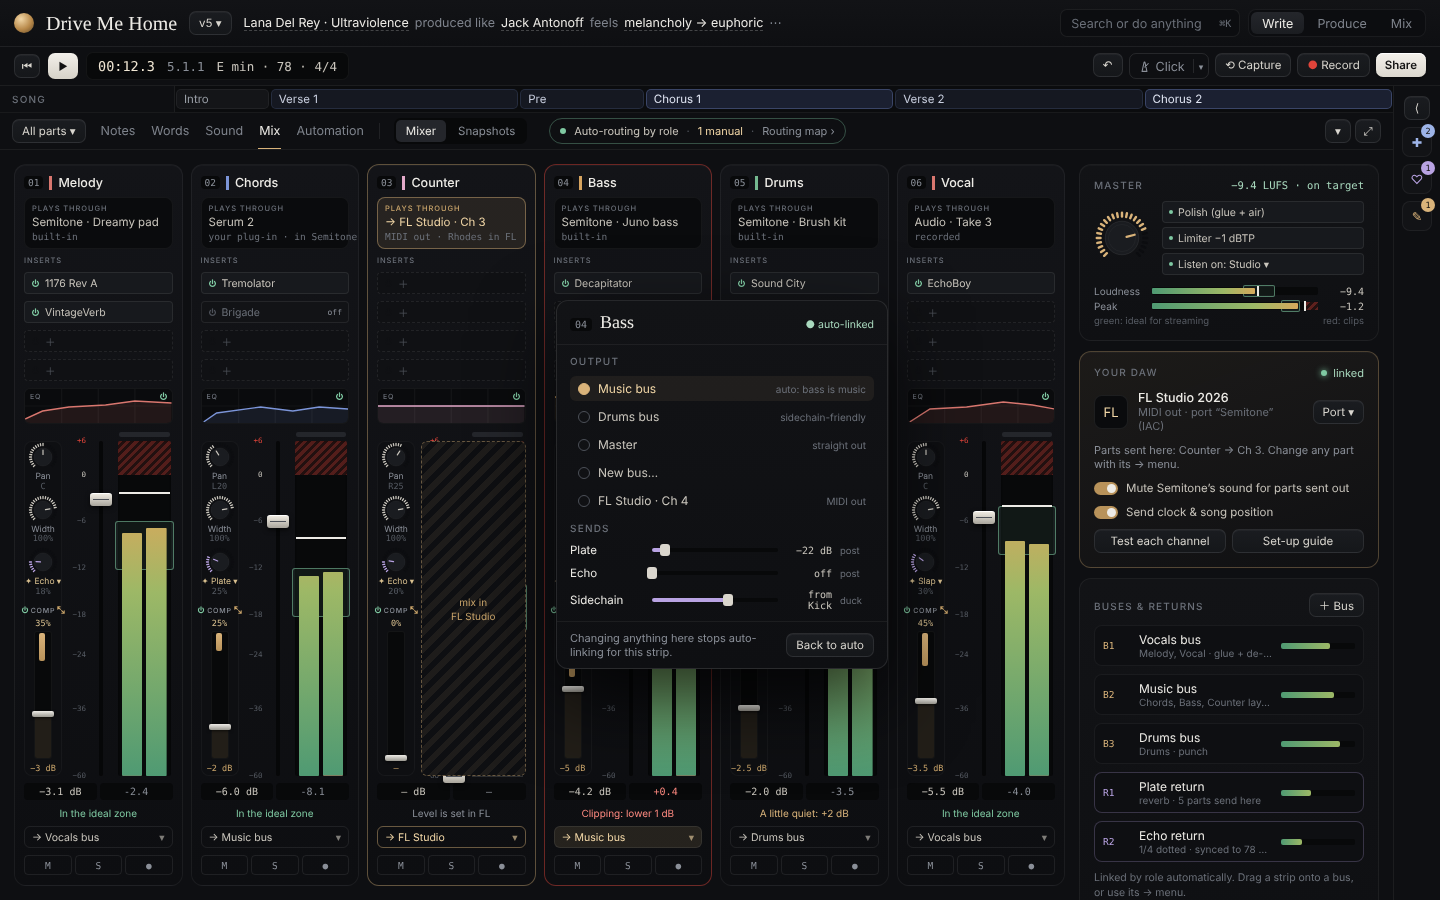
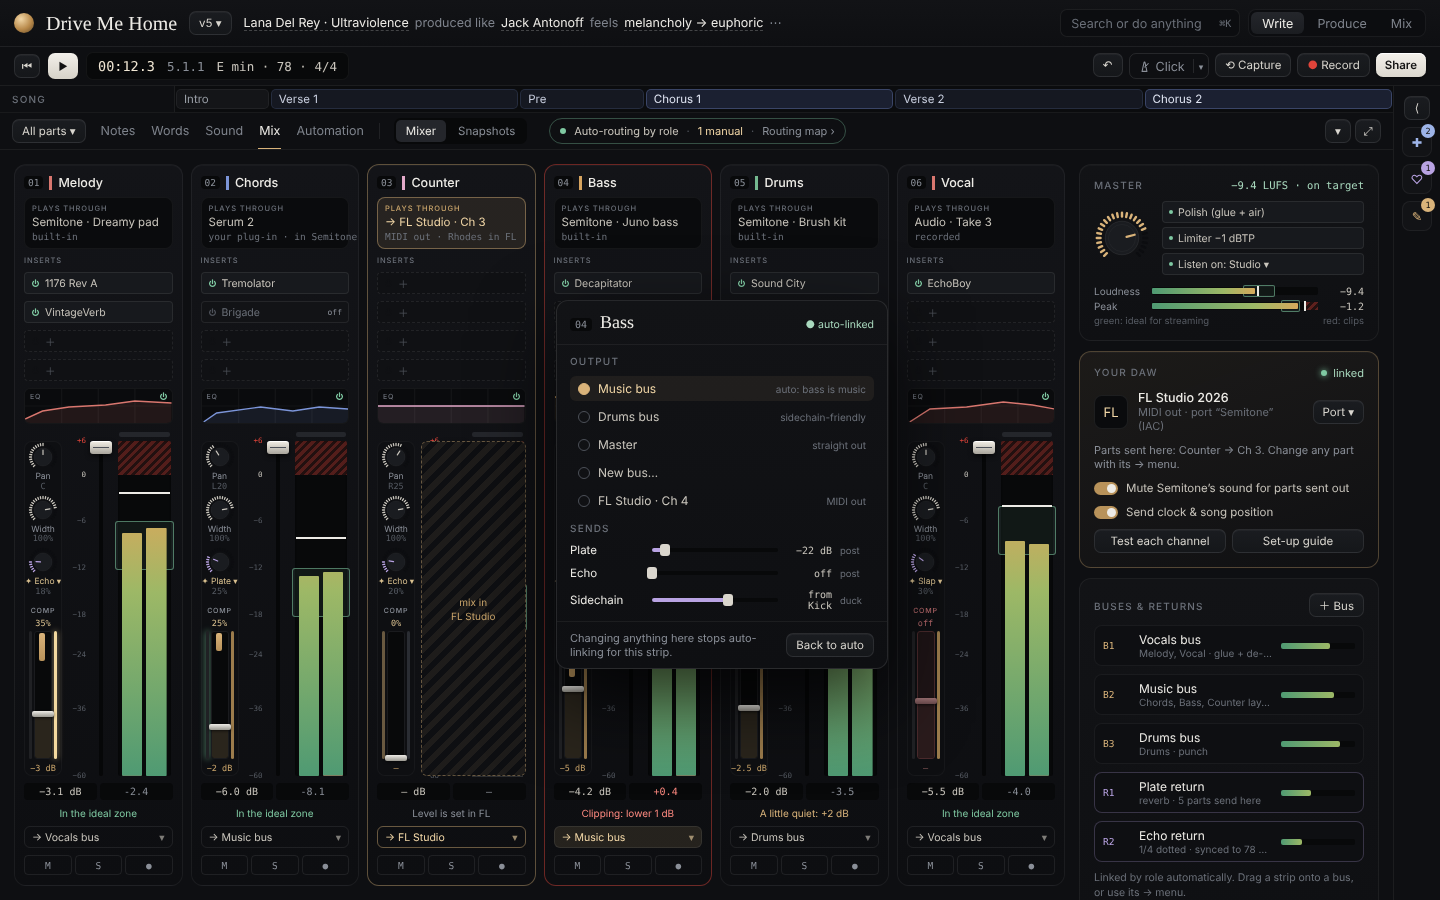
Mixer Comp column: green power rail (dull red when bypassed) and gold open rail, with hover tips
Claude-Session: https://claude.ai/code/session_01Gwi5mznyCGAVwjhLcrp4R8

diff --git a/docs/design/panels/reference-Mixer.dc.html b/docs/design/panels/reference-Mixer.dc.html
@@ -61,10 +61,14 @@ button{cursor:pointer;white-space:nowrap}
         <div style="flex: 1; display: grid; grid-template-columns: 38px 1fr; gap: 6px; min-height: 0; padding-top: 10px">
           <div style="display: flex; flex-direction: column; align-items: center; gap: 4px; padding: 0 0 2px; border-radius: 8px; background: #0E0F12; border: 1px solid rgba(255,255,255,.04)">
             <sc-for list="{{s.knobs}}" as="k" hint-placeholder-count="4"><sc-if value="{{k.hd}}" hint-placeholder-val="{{false}}"><span class="sm" style="font-size: 7px; margin-top: 4px; color: #555A62">{{k.hd}}</span></sc-if><span style="display: flex; flex-direction: column; align-items: center"><svg viewBox="0 0 60 60" width="30" height="30" aria-hidden="true"><sc-for list="{{k.seg}}" as="g" hint-placeholder-count="25"><path d="{{g.d}}" stroke="{{g.c}}" stroke-width="2.6" stroke-linecap="round"></path></sc-for><circle cx="30" cy="30" r="18" fill="#1A1C20" stroke="rgba(255,255,255,.08)"></circle><path d="{{k.ptr}}" stroke="{{k.col}}" stroke-width="2.4" stroke-linecap="round"></path></svg><span style="font-size: 8.5px; color: {{k.ni}}; line-height: 1; white-space: nowrap">{{k.n}}</span><span class="mono" style="font-size: 8.5px; color: #555A62">{{k.v}}</span></span></sc-for>
-            <span class="sm" title="Double-click the bar to open the compressor" style="font-size: 7px; margin-top: 6px; color: #8A8F98; display: flex; align-items: center; gap: 2px"><span role="button" aria-label="Bypass compressor" title="Bypass compressor" style="display: flex"><svg viewBox="0 0 10 10" width="8" height="8" aria-hidden="true"><path d="M5 1.1V4.9" stroke="#7FC9A2" stroke-width="1.4" stroke-linecap="round"></path><path d="M2.8 2.7A3.2 3.2 0 1 0 7.2 2.7" fill="none" stroke="#7FC9A2" stroke-width="1.4" stroke-linecap="round"></path></svg></span>Comp<svg viewBox="0 0 10 10" width="8" height="8" aria-hidden="true"><path d="M4 1H1V4M6 9H9V6M1 1L4.2 4.2M9 9L5.8 5.8" fill="none" stroke="#C9A46A" stroke-width="1.3" stroke-linecap="round"/></svg></span>
-            <span class="mono" style="font-size: 8.5px; color: #D9C08F; line-height: 1">{{s.ca}}%</span>
-            <span title="Compressor: drag the cap for more or less. Double-click to open the compressor. Alt-click: smart amount" style="position: relative; width: 16px; flex: 1; min-height: 60px; border-radius: 3px; background: #08090A; border: 1px solid rgba(255,255,255,.05)"><span style="position: absolute; left: 0; right: 0; bottom: 0; height: {{s.ca}}%; border-radius: 2px; background: rgba(217,179,122,.13)"></span><span style="position: absolute; left: 4px; width: 6px; top: 1px; height: {{s.gr}}%; border-radius: 2px; background: linear-gradient(#D9B37A, #B8925A)"></span><span style="position: absolute; left: -3px; right: -3px; bottom: calc({{s.ca}}% - 3px); height: 6px; border-radius: 2px; background: linear-gradient(#EDEBE6, #9A9890); box-shadow: 0 1px 3px rgba(0,0,0,.6)"></span></span>
-            <span class="mono" style="font-size: 8.5px; color: #C9A46A">{{s.grt}}</span>
+            <span class="sm" style="font-size: 7px; margin-top: 6px; color: {{s.labInk}}">Comp</span>
+            <span class="mono" style="font-size: 8.5px; color: {{s.caInk}}; line-height: 1">{{s.cat}}</span>
+            <span style="flex: 1; min-height: 60px; display: flex; gap: 2px; align-items: stretch">
+              <span role="button" aria-label="{{s.lLab}}" title="{{s.lLab}} (B)" style="width: 3px; border-radius: 2px; background: {{s.rl}}; box-shadow: {{s.rlg}}"></span>
+              <span title="Compressor: drag the cap for more or less. Double-click to open. Alt-click: smart amount" style="position: relative; width: 16px; border-radius: 3px; background: {{s.barBg}}; border: 1px solid {{s.barLine}}"><span style="position: absolute; left: 0; right: 0; bottom: 0; height: {{s.ca}}%; border-radius: 2px; background: {{s.tint}}"></span><span style="position: absolute; left: 4px; width: 6px; top: 1px; height: {{s.gr}}%; border-radius: 2px; background: {{s.grFill}}"></span><span style="position: absolute; left: -3px; right: -3px; bottom: calc({{s.ca}}% - 3px); height: 6px; border-radius: 2px; background: {{s.cap}}; box-shadow: 0 1px 3px rgba(0,0,0,.6)"></span></span>
+              <span role="button" aria-label="Open compressor" title="Open compressor" style="width: 3px; border-radius: 2px; background: {{s.rr}}; box-shadow: {{s.rrg}}"></span>
+            </span>
+            <span class="mono" style="font-size: 8.5px; color: {{s.grInk}}">{{s.grt}}</span>
           </div>
           <div style="position: relative; display: grid; grid-template-columns: 20px 22px 1fr; gap: 2px; padding-right: 2px">
             <div style="position: relative">
@@ -120,7 +124,7 @@ button{cursor:pointer;white-space:nowrap}
     </aside>
   </div>
 
-  <div role="dialog" aria-label="What this knob controls" style="position: absolute; left: 598px; top: 452px; width: 318px; border-radius: 12px; background: linear-gradient(#121316, #0E0F12); border: 1px solid rgba(255,255,255,.09); box-shadow: 0 24px 60px rgba(0,0,0,.7); z-index: 9; overflow: hidden; font-size: 11.5px">
+  <div role="dialog" aria-label="What this knob controls" style="position: absolute; left: 598px; top: 452px; width: 290px; border-radius: 12px; background: linear-gradient(#121316, #0E0F12); border: 1px solid rgba(255,255,255,.09); box-shadow: 0 24px 60px rgba(0,0,0,.7); z-index: 9; overflow: hidden; font-size: 11.5px">
     <div style="padding: 10px 12px; display: flex; align-items: center; gap: 8px; border-bottom: 1px solid rgba(255,255,255,.06)"><span class="mono" style="color: #6B7079">04</span><span class="serif" style="font-size: 16px">Bass</span><span style="color: #8A8F98">· this knob controls</span><span style="margin-left: auto; padding: 2px 7px; border-radius: 999px; background: rgba(217,179,122,.12); color: #D9C08F; font-size: 10px">✦ smart</span></div>
     <div style="padding: 8px 8px 4px"><span class="sm" style="padding: 0 4px">Useful on bass</span>
       <sc-for list="{{smOpts}}" as="o" hint-placeholder-count="3"><div style="display: flex; gap: 9px; align-items: flex-start; padding: 6px 6px; border-radius: 7px; background: {{o.bg}}; margin-top: 3px"><span style="margin-top: 2px; width: 10px; height: 10px; border-radius: 50%; border: 1.5px solid {{o.ring}}; background: {{o.dot}}; flex-shrink: 0"></span><span style="display: flex; flex-direction: column; gap: 1px"><span style="color: {{o.ink}}">{{o.n}}</span><span style="color: #6B7079; font-size: 10.5px">{{o.d}}</span></span></div></sc-for>
@@ -131,7 +135,8 @@ button{cursor:pointer;white-space:nowrap}
     </div>
     <div style="padding: 8px 12px; border-top: 1px solid rgba(255,255,255,.06); color: #6B7079; font-size: 10.5px; display: flex; align-items: center; gap: 8px"><span>Picked for bass in this style. A choice you make sticks.</span><span style="margin-left: auto; color: #D9C08F; white-space: nowrap">✦ Back to smart</span></div>
   </div>
-  <div style="position: absolute; left: 62px; top: 668px; width: 176px; padding: 8px 10px; border-radius: 9px; background: #121316; border: 1px solid rgba(217,179,122,.3); box-shadow: 0 12px 30px rgba(0,0,0,.6); z-index: 8; font-size: 10.5px; color: #8A8F98; line-height: 1.4"><span style="display: flex; align-items: center; gap: 6px; color: #EDEBE6">Comp 35% · Smooth</span><span style="display: flex; align-items: center; gap: 6px; margin: 5px 0 3px; color: #F1D6A6"><span style="display: inline-flex; gap: 2px"><span style="width: 7px; height: 7px; border-radius: 50%; border: 1.3px solid #D9B37A"></span><span style="width: 7px; height: 7px; border-radius: 50%; border: 1.3px solid #D9B37A"></span></span>Double-click to open</span>Drag the cap for more or less. ⌥-click: smart amount.</div></div>
+  <div role="tooltip" style="position: absolute; left: 70px; top: 640px; padding: 6px 10px; border-radius: 8px; background: #1E1B14; border: 1px solid #5A4A30; box-shadow: 0 10px 26px rgba(0,0,0,.6); z-index: 8; font-size: 11px; color: #F3D9A0; white-space: nowrap; display: flex; align-items: center; gap: 6px"><span style="width: 3px; height: 12px; border-radius: 2px; background: #F3D9A0"></span>Click to open the compressor</div>
+  <div role="tooltip" style="position: absolute; left: 236px; top: 610px; padding: 6px 10px; border-radius: 8px; background: #14201A; border: 1px solid #2E5A44; box-shadow: 0 10px 26px rgba(0,0,0,.6); z-index: 8; font-size: 11px; color: #9FE8C0; white-space: nowrap; display: flex; align-items: center; gap: 6px"><span style="width: 3px; height: 12px; border-radius: 2px; background: #8FF0BA"></span>Click to bypass · B</div></div></div>
 </x-dc>
 <script type="text/x-dc" data-dc-script data-props='{"$preview":{"width":1440,"height":900}}'>
 class Component extends DCLogic {
@@ -164,13 +169,22 @@ function segOf(list, on) { return list.map(function (n) { var o = n === on; retu
       var idT = Y(s[11][1]), idB = Y(s[11][0]);
       return { n: s[0], c: s[1], out: s[2], outSub: s[3], fx: fxL(s[4]),
         knobs: (function () { var sm = { Melody: ['Echo', .18, '18%', 's'], Chords: ['Plate', .25, '25%', 's'], Counter: ['Echo', .2, '20%', 's'], Bass: ['Drive', .3, '30%', 't'], Drums: ['Room', .3, '30%', 's'], Vocal: ['Slap', .3, '30%', 's'] }[s[0]]; return [{ n: 'Pan', v: s[5][1], x: s[5][0] }, { n: 'Width', v: '100%', x: .8 }, { n: '✦ ' + sm[0] + ' ▾', v: sm[2], x: sm[1], c: sm[3] === 's' ? '#B9A3E3' : '#D9B37A', smart: 1 }].map(function (k) { var o = knob(k.x, k.c || '#C9C5BC', 30); o.n = k.n; o.v = k.v; o.ni = k.smart ? '#D9C08F' : '#8A8F98'; o.hd = false; return o; }); })(),
-        ca: ext ? 0 : { Melody: 35, Chords: 25, Counter: 0, Bass: 55, Drums: 40, Vocal: 45 }[s[0]], cst: { Melody: 'Smooth', Chords: 'Glue', Counter: '', Bass: 'Steady', Drums: 'Punchy', Vocal: 'Smooth' }[s[0]],
+        ca: ext ? 0 : { Melody: 35, Chords: 25, Counter: 0, Bass: 55, Drums: 40, Vocal: 45 }[s[0]],
+        cOff: s[0] === 'Vocal', hovL: s[0] === 'Chords', hovR: s[0] === 'Melody', cst: { Melody: 'Smooth', Chords: 'Glue', Counter: '', Bass: 'Steady', Drums: 'Punchy', Vocal: 'Smooth' }[s[0]],
         gr: ext ? 0 : [22, 14, 0, 35, 18, 26][['Melody', 'Chords', 'Counter', 'Bass', 'Drums', 'Vocal'].indexOf(s[0])], grt: ext ? '—' : '−' + ([3, 2, 0, 5, 2.5, 3.5][['Melody', 'Chords', 'Counter', 'Bass', 'Drums', 'Vocal'].indexOf(s[0])]) + ' dB',
         l1: (100 - Y(s[8])).toFixed(1), l2: (100 - Y(s[9])).toFixed(1), gs1: (100 / Math.max(.01, (100 - Y(s[8])) / 100)).toFixed(0), gs2: (100 / Math.max(.01, (100 - Y(s[9])) / 100)).toFixed(0),
         pk: Y(s[10]).toFixed(1), pkc: hot ? '#E0443A' : '#EDEBE6', clip: hot ? '#E0443A' : '#24262B', peak: ext ? '—' : (s[10] > 0 ? '+' : '') + s[10].toFixed(1), pkInk: hot ? '#FF8A80' : '#8A8F98',
         idT: idT.toFixed(1), idH: (idB - idT).toFixed(1), cap: Y(s[7] === null ? -60 : s[7]).toFixed(1), db: ext ? '— dB' : (s[7] > 0 ? '+' : '') + s[7].toFixed(1).replace('-', '−') + ' dB',
         verdict: s[12], verdictInk: hot ? '#FF8A80' : low ? '#D9B37A' : ext ? '#8A8F98' : '#7FC9A2', eq: s[13],
         ext: ext, mo: ext ? .15 : 1, ms: ['M', 'S', '●'], line: hot ? 'rgba(224,68,58,.45)' : ext ? 'rgba(217,179,122,.4)' : 'rgba(255,255,255,.06)', outBg: ext ? 'rgba(217,179,122,.1)' : '#0A0B0D', outLine: ext ? 'rgba(217,179,122,.45)' : 'rgba(255,255,255,.05)', outInk: ext ? '#F1D6A6' : '#C9C5BC', outK: ext ? '#C9A46A' : '#6B7079' }; });
+    strips.forEach(function (t) { var off = t.cOff, ext = t.ext;
+      t.rl = off ? (t.hovL ? '#D86060' : '#B04E50') : t.hovL ? '#8FF0BA' : ext ? '#2A2D33' : '#4FA877'; t.rlg = t.hovL ? '0 0 6px rgba(143,240,186,.7)' : 'none';
+      t.rr = t.hovR ? '#F3D9A0' : ext ? '#2A2D33' : '#9C7C4C'; t.rrg = t.hovR ? '0 0 6px rgba(243,217,160,.7)' : 'none';
+      t.barBg = off ? '#1E1416' : '#08090A'; t.barLine = off ? '#4A2A2C' : '#1A1B1E'; t.tint = off ? '#2A1B1C' : '#2A251C';
+      t.grFill = off ? '#4A2A2C' : 'linear-gradient(#D9B37A, #B8925A)'; t.cap = off ? 'linear-gradient(#9A7072, #6A4A4C)' : 'linear-gradient(#EDEBE6, #9A9890)';
+      t.cat = off ? 'off' : t.ca + '%'; t.caInk = off ? '#B86A6C' : '#D9C08F'; t.labInk = off ? '#B86A6C' : '#8A8F98';
+      t.grt = off ? '—' : t.grt; t.grInk = off ? '#8A5A5C' : '#C9A46A'; if (off) t.gr = 0;
+      t.lLab = off ? 'Turn compressor on' : 'Bypass compressor'; });
     var master = knob(.78, '#D9B37A', 54);
     var mfx = ['Polish (glue + air)', 'Limiter −1 dBTP', 'Listen on: Studio ▾'];
     var mbars = [['Loudness', 62, 55, 18, 0, 64, '−9.4'], ['Peak', 88, 78, 10, 7, 92, '−1.2']].map(function (b) { return { n: b[0], v: b[1], zl: b[2], zw: b[3], red: b[4], pk: b[5], t: b[6] }; });

diff --git a/docs/design/panels/reference-Routing.dc.html b/docs/design/panels/reference-Routing.dc.html
@@ -61,10 +61,14 @@ button{cursor:pointer;white-space:nowrap}
         <div style="flex: 1; display: grid; grid-template-columns: 38px 1fr; gap: 6px; min-height: 0; padding-top: 10px">
           <div style="display: flex; flex-direction: column; align-items: center; gap: 4px; padding: 0 0 2px; border-radius: 8px; background: #0E0F12; border: 1px solid rgba(255,255,255,.04)">
             <sc-for list="{{s.knobs}}" as="k" hint-placeholder-count="4"><sc-if value="{{k.hd}}" hint-placeholder-val="{{false}}"><span class="sm" style="font-size: 7px; margin-top: 4px; color: #555A62">{{k.hd}}</span></sc-if><span style="display: flex; flex-direction: column; align-items: center"><svg viewBox="0 0 60 60" width="30" height="30" aria-hidden="true"><sc-for list="{{k.seg}}" as="g" hint-placeholder-count="25"><path d="{{g.d}}" stroke="{{g.c}}" stroke-width="2.6" stroke-linecap="round"></path></sc-for><circle cx="30" cy="30" r="18" fill="#1A1C20" stroke="rgba(255,255,255,.08)"></circle><path d="{{k.ptr}}" stroke="{{k.col}}" stroke-width="2.4" stroke-linecap="round"></path></svg><span style="font-size: 8.5px; color: {{k.ni}}; line-height: 1; white-space: nowrap">{{k.n}}</span><span class="mono" style="font-size: 8.5px; color: #555A62">{{k.v}}</span></span></sc-for>
-            <span class="sm" title="Double-click the bar to open the compressor" style="font-size: 7px; margin-top: 6px; color: #8A8F98; display: flex; align-items: center; gap: 2px"><span role="button" aria-label="Bypass compressor" title="Bypass compressor" style="display: flex"><svg viewBox="0 0 10 10" width="8" height="8" aria-hidden="true"><path d="M5 1.1V4.9" stroke="#7FC9A2" stroke-width="1.4" stroke-linecap="round"></path><path d="M2.8 2.7A3.2 3.2 0 1 0 7.2 2.7" fill="none" stroke="#7FC9A2" stroke-width="1.4" stroke-linecap="round"></path></svg></span>Comp<svg viewBox="0 0 10 10" width="8" height="8" aria-hidden="true"><path d="M4 1H1V4M6 9H9V6M1 1L4.2 4.2M9 9L5.8 5.8" fill="none" stroke="#C9A46A" stroke-width="1.3" stroke-linecap="round"/></svg></span>
-            <span class="mono" style="font-size: 8.5px; color: #D9C08F; line-height: 1">{{s.ca}}%</span>
-            <span title="Compressor: drag the cap for more or less. Double-click to open the compressor. Alt-click: smart amount" style="position: relative; width: 16px; flex: 1; min-height: 60px; border-radius: 3px; background: #08090A; border: 1px solid rgba(255,255,255,.05)"><span style="position: absolute; left: 0; right: 0; bottom: 0; height: {{s.ca}}%; border-radius: 2px; background: rgba(217,179,122,.13)"></span><span style="position: absolute; left: 4px; width: 6px; top: 1px; height: {{s.gr}}%; border-radius: 2px; background: linear-gradient(#D9B37A, #B8925A)"></span><span style="position: absolute; left: -3px; right: -3px; bottom: calc({{s.ca}}% - 3px); height: 6px; border-radius: 2px; background: linear-gradient(#EDEBE6, #9A9890); box-shadow: 0 1px 3px rgba(0,0,0,.6)"></span></span>
-            <span class="mono" style="font-size: 8.5px; color: #C9A46A">{{s.grt}}</span>
+            <span class="sm" style="font-size: 7px; margin-top: 6px; color: {{s.labInk}}">Comp</span>
+            <span class="mono" style="font-size: 8.5px; color: {{s.caInk}}; line-height: 1">{{s.cat}}</span>
+            <span style="flex: 1; min-height: 60px; display: flex; gap: 2px; align-items: stretch">
+              <span role="button" aria-label="{{s.lLab}}" title="{{s.lLab}} (B)" style="width: 3px; border-radius: 2px; background: {{s.rl}}; box-shadow: {{s.rlg}}"></span>
+              <span title="Compressor: drag the cap for more or less. Double-click to open. Alt-click: smart amount" style="position: relative; width: 16px; border-radius: 3px; background: {{s.barBg}}; border: 1px solid {{s.barLine}}"><span style="position: absolute; left: 0; right: 0; bottom: 0; height: {{s.ca}}%; border-radius: 2px; background: {{s.tint}}"></span><span style="position: absolute; left: 4px; width: 6px; top: 1px; height: {{s.gr}}%; border-radius: 2px; background: {{s.grFill}}"></span><span style="position: absolute; left: -3px; right: -3px; bottom: calc({{s.ca}}% - 3px); height: 6px; border-radius: 2px; background: {{s.cap}}; box-shadow: 0 1px 3px rgba(0,0,0,.6)"></span></span>
+              <span role="button" aria-label="Open compressor" title="Open compressor" style="width: 3px; border-radius: 2px; background: {{s.rr}}; box-shadow: {{s.rrg}}"></span>
+            </span>
+            <span class="mono" style="font-size: 8.5px; color: {{s.grInk}}">{{s.grt}}</span>
           </div>
           <div style="position: relative; display: grid; grid-template-columns: 20px 22px 1fr; gap: 2px; padding-right: 2px">
             <div style="position: relative">
@@ -165,13 +169,22 @@ function segOf(list, on) { return list.map(function (n) { var o = n === on; retu
       var idT = Y(s[11][1]), idB = Y(s[11][0]);
       return { n: s[0], c: s[1], out: s[2], outSub: s[3], fx: fxL(s[4]),
         knobs: (function () { var sm = { Melody: ['Echo', .18, '18%', 's'], Chords: ['Plate', .25, '25%', 's'], Counter: ['Echo', .2, '20%', 's'], Bass: ['Drive', .3, '30%', 't'], Drums: ['Room', .3, '30%', 's'], Vocal: ['Slap', .3, '30%', 's'] }[s[0]]; return [{ n: 'Pan', v: s[5][1], x: s[5][0] }, { n: 'Width', v: '100%', x: .8 }, { n: '✦ ' + sm[0] + ' ▾', v: sm[2], x: sm[1], c: sm[3] === 's' ? '#B9A3E3' : '#D9B37A', smart: 1 }].map(function (k) { var o = knob(k.x, k.c || '#C9C5BC', 30); o.n = k.n; o.v = k.v; o.ni = k.smart ? '#D9C08F' : '#8A8F98'; o.hd = false; return o; }); })(),
-        ca: ext ? 0 : { Melody: 35, Chords: 25, Counter: 0, Bass: 55, Drums: 40, Vocal: 45 }[s[0]], cst: { Melody: 'Smooth', Chords: 'Glue', Counter: '', Bass: 'Steady', Drums: 'Punchy', Vocal: 'Smooth' }[s[0]],
+        ca: ext ? 0 : { Melody: 35, Chords: 25, Counter: 0, Bass: 55, Drums: 40, Vocal: 45 }[s[0]],
+        cOff: s[0] === 'Vocal', hovL: s[0] === 'Chords', hovR: s[0] === 'Melody', cst: { Melody: 'Smooth', Chords: 'Glue', Counter: '', Bass: 'Steady', Drums: 'Punchy', Vocal: 'Smooth' }[s[0]], cst: { Melody: 'Smooth', Chords: 'Glue', Counter: '', Bass: 'Steady', Drums: 'Punchy', Vocal: 'Smooth' }[s[0]],
         gr: ext ? 0 : [22, 14, 0, 35, 18, 26][['Melody', 'Chords', 'Counter', 'Bass', 'Drums', 'Vocal'].indexOf(s[0])], grt: ext ? '—' : '−' + ([3, 2, 0, 5, 2.5, 3.5][['Melody', 'Chords', 'Counter', 'Bass', 'Drums', 'Vocal'].indexOf(s[0])]) + ' dB',
         l1: (100 - Y(s[8])).toFixed(1), l2: (100 - Y(s[9])).toFixed(1), gs1: (100 / Math.max(.01, (100 - Y(s[8])) / 100)).toFixed(0), gs2: (100 / Math.max(.01, (100 - Y(s[9])) / 100)).toFixed(0),
         pk: Y(s[10]).toFixed(1), pkc: hot ? '#E0443A' : '#EDEBE6', clip: hot ? '#E0443A' : '#24262B', peak: ext ? '—' : (s[10] > 0 ? '+' : '') + s[10].toFixed(1), pkInk: hot ? '#FF8A80' : '#8A8F98',
         idT: idT.toFixed(1), idH: (idB - idT).toFixed(1), cap: Y(s[7] === null ? -60 : s[7]).toFixed(1), db: ext ? '— dB' : (s[7] > 0 ? '+' : '') + s[7].toFixed(1).replace('-', '−') + ' dB',
         verdict: s[12], verdictInk: hot ? '#FF8A80' : low ? '#D9B37A' : ext ? '#8A8F98' : '#7FC9A2', eq: s[13],
         ext: ext, mo: ext ? .15 : 1, ms: ['M', 'S', '●'], line: hot ? 'rgba(224,68,58,.45)' : ext ? 'rgba(217,179,122,.4)' : 'rgba(255,255,255,.06)', outBg: ext ? 'rgba(217,179,122,.1)' : '#0A0B0D', outLine: ext ? 'rgba(217,179,122,.45)' : 'rgba(255,255,255,.05)', outInk: ext ? '#F1D6A6' : '#C9C5BC', outK: ext ? '#C9A46A' : '#6B7079' }; });
+    strips.forEach(function (t) { var off = t.cOff, ext = t.ext;
+      t.rl = off ? (t.hovL ? '#D86060' : '#B04E50') : t.hovL ? '#8FF0BA' : ext ? '#2A2D33' : '#4FA877'; t.rlg = t.hovL ? '0 0 6px rgba(143,240,186,.7)' : 'none';
+      t.rr = t.hovR ? '#F3D9A0' : ext ? '#2A2D33' : '#9C7C4C'; t.rrg = t.hovR ? '0 0 6px rgba(243,217,160,.7)' : 'none';
+      t.barBg = off ? '#1E1416' : '#08090A'; t.barLine = off ? '#4A2A2C' : '#1A1B1E'; t.tint = off ? '#2A1B1C' : '#2A251C';
+      t.grFill = off ? '#4A2A2C' : 'linear-gradient(#D9B37A, #B8925A)'; t.cap = off ? 'linear-gradient(#9A7072, #6A4A4C)' : 'linear-gradient(#EDEBE6, #9A9890)';
+      t.cat = off ? 'off' : t.ca + '%'; t.caInk = off ? '#B86A6C' : '#D9C08F'; t.labInk = off ? '#B86A6C' : '#8A8F98';
+      t.grt = off ? '—' : t.grt; t.grInk = off ? '#8A5A5C' : '#C9A46A'; if (off) t.gr = 0;
+      t.lLab = off ? 'Turn compressor on' : 'Bypass compressor'; });
     var master = knob(.78, '#D9B37A', 54);
     var mfx = ['Polish (glue + air)', 'Limiter −1 dBTP', 'Listen on: Studio ▾'];
     var NO = { Melody: '01', Chords: '02', Counter: '03', Bass: '04', Drums: '05', Vocal: '06' }, RT = { Melody: 'Vocals bus', Chords: 'Music bus', Counter: 'FL Studio', Bass: 'Music bus', Drums: 'Drums bus', Vocal: 'Vocals bus' };

diff --git a/docs/design/panels/README.md b/docs/design/panels/README.md
@@ -108,12 +108,19 @@ The desktop app records natively (TakeRecorder). Inside a DAW, recording stays w
       entry for the role (sourced move in that producer's pass, e.g. Antonoff-style: vocal → Slap, drums → Room), then a sourced style exception
       (film/orchestral may add reverb to bass, high-passed at 600 Hz), then the role pick (bass → Drive, sub → Duck from kick, lead → Echo,
       chords → Plate, pad → Hall, drums → Crush…). Smart never puts reverb or echo on bass unless one of those says so.
-    - **Comp:** label, amount ("35%"), then a 16 px bar that stretches to the bottom. A metal cap marks the **amount** (drag up for more, scroll
-      for fine steps, double-click = open the Smart compressor (`docs/design/mixing/README.md` section 4; the Comp label has an open-window icon),
-      ⌥-click = smart amount, right-click = Style Smooth/Steady/Punchy/Glue/Squash, Sidechain from…, Full view); a faint
-      brass tint fills below the cap; the live **gain reduction** draws from the top in brass, with the dB under the bar. Style and amount per
-      role come from `comp` in `data/mix-master.json`; Amount is an automation target and controller-learnable. Parts mixed in your DAW show "—".
-      Today parts have no compressor of their own (only the master's Polish): add one per part in the page and port it to `Source/SynthFx.h`. The right column has a **dB scale** (+6, 0, −6, −12, −18, −24, −36, −60, with 0 in
+    - **Comp:** "COMP" label and amount ("35%"), then the 16 px bar between two 3 px **rails** that stretch with it (Jamie, 8 Nov):
+      - **Left rail = power.** Green (#4FA877) when on. Hover: brighter (#8FF0BA) with a soft glow and a tip "Click to bypass · B". Click
+        toggles bypass. When bypassed the rail turns a dull red (#B04E50; brighter red on hover, tip "Click to turn on · B"), and the whole
+        column goes dull red too: label and amount read "COMP off" in muted red, the bar and its cap tint red-brown, no gain reduction, "—"
+        under it.
+      - **Right rail = open.** Gold (#9C7C4C). Hover: bright gold (#F3D9A0) with a glow and a tip "Click to open the compressor". Click opens
+        the compressor window (double-clicking the bar still works too).
+      - Tips are small dark pills with a matching colour tick, shown after ~300 ms of hover; both rails are buttons for keyboard and screen
+        readers ("Bypass compressor", "Open compressor") with a hit area wider than they look (at least 10 px).
+      - The bar itself: a metal cap marks the **amount** (drag up for more, scroll for fine steps, ⌥-click = smart amount, right-click =
+        Style, Sidechain from…, Full view), a faint tint below the cap, the live **gain reduction** in brass from the top, the dB under it.
+        Parts mixed in your DAW show grey rails and "—". Today parts have no compressor of their own (only the master's Polish): add one per
+        part in the page and port it to `Source/SynthFx.h`.
     the text colour and +6 in red), the fader with a metal cap, and a full-width stereo meter.
 - **The meter:**
   - Green → yellow → red gradient that reaches red only near 0 dB.

diff --git a/docs/design/mixing/README.md b/docs/design/mixing/README.md
@@ -245,7 +245,8 @@ bypassed quickly, and the state never relies on colour alone.
   status message sits over the graph: "Bypassed · You're hearing the vocal without the compressor, at the same loudness. Press B to turn it
   back on." (`role="status"`, read out once.)
 - **On the mixer strip:** each insert slot starts with a small power icon (green on, grey off); an off slot also shows "off" and greys its
-  name. The EQ thumbnail and the Comp column each have their own power icon. Empty slots show no icon.
+  name. The EQ thumbnail has its own power icon; the Comp column uses its green left rail (red when bypassed) and gold right rail (open), see
+  `docs/design/panels/README.md`. Empty slots show no icon.
 - **Keys:** B toggles the effect in focus or the open window; ⇧B toggles every effect on the selected part; ⌥B bypasses everything on the
   master (a quick "with / without" check). Bypass is MIDI-learnable and automatable.
 - **How it sounds:** a 10–20 ms crossfade (no click); bypassed effects keep their delay so timing doesn't jump; the compressor's bypass is
